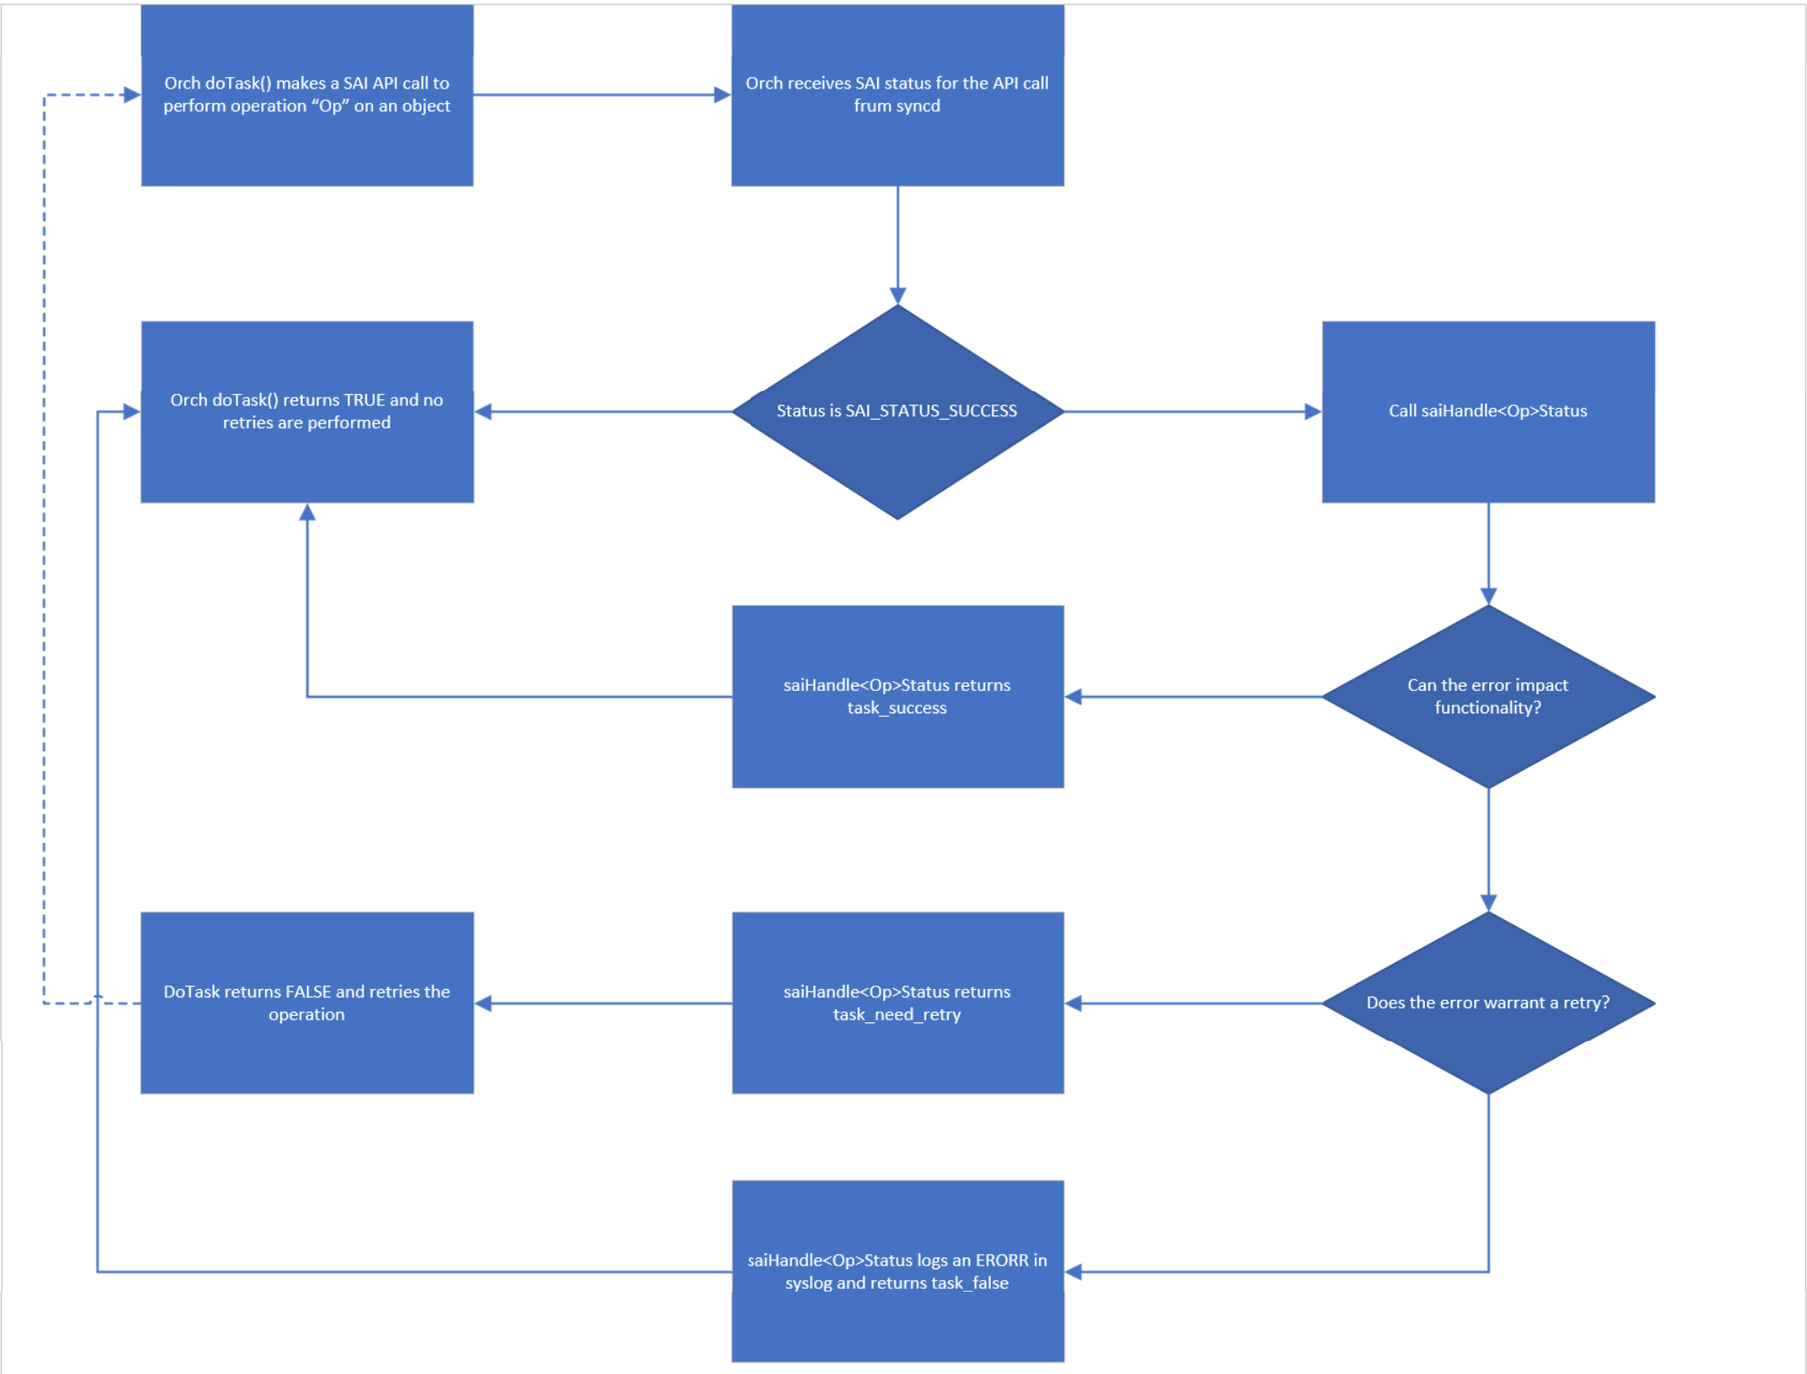
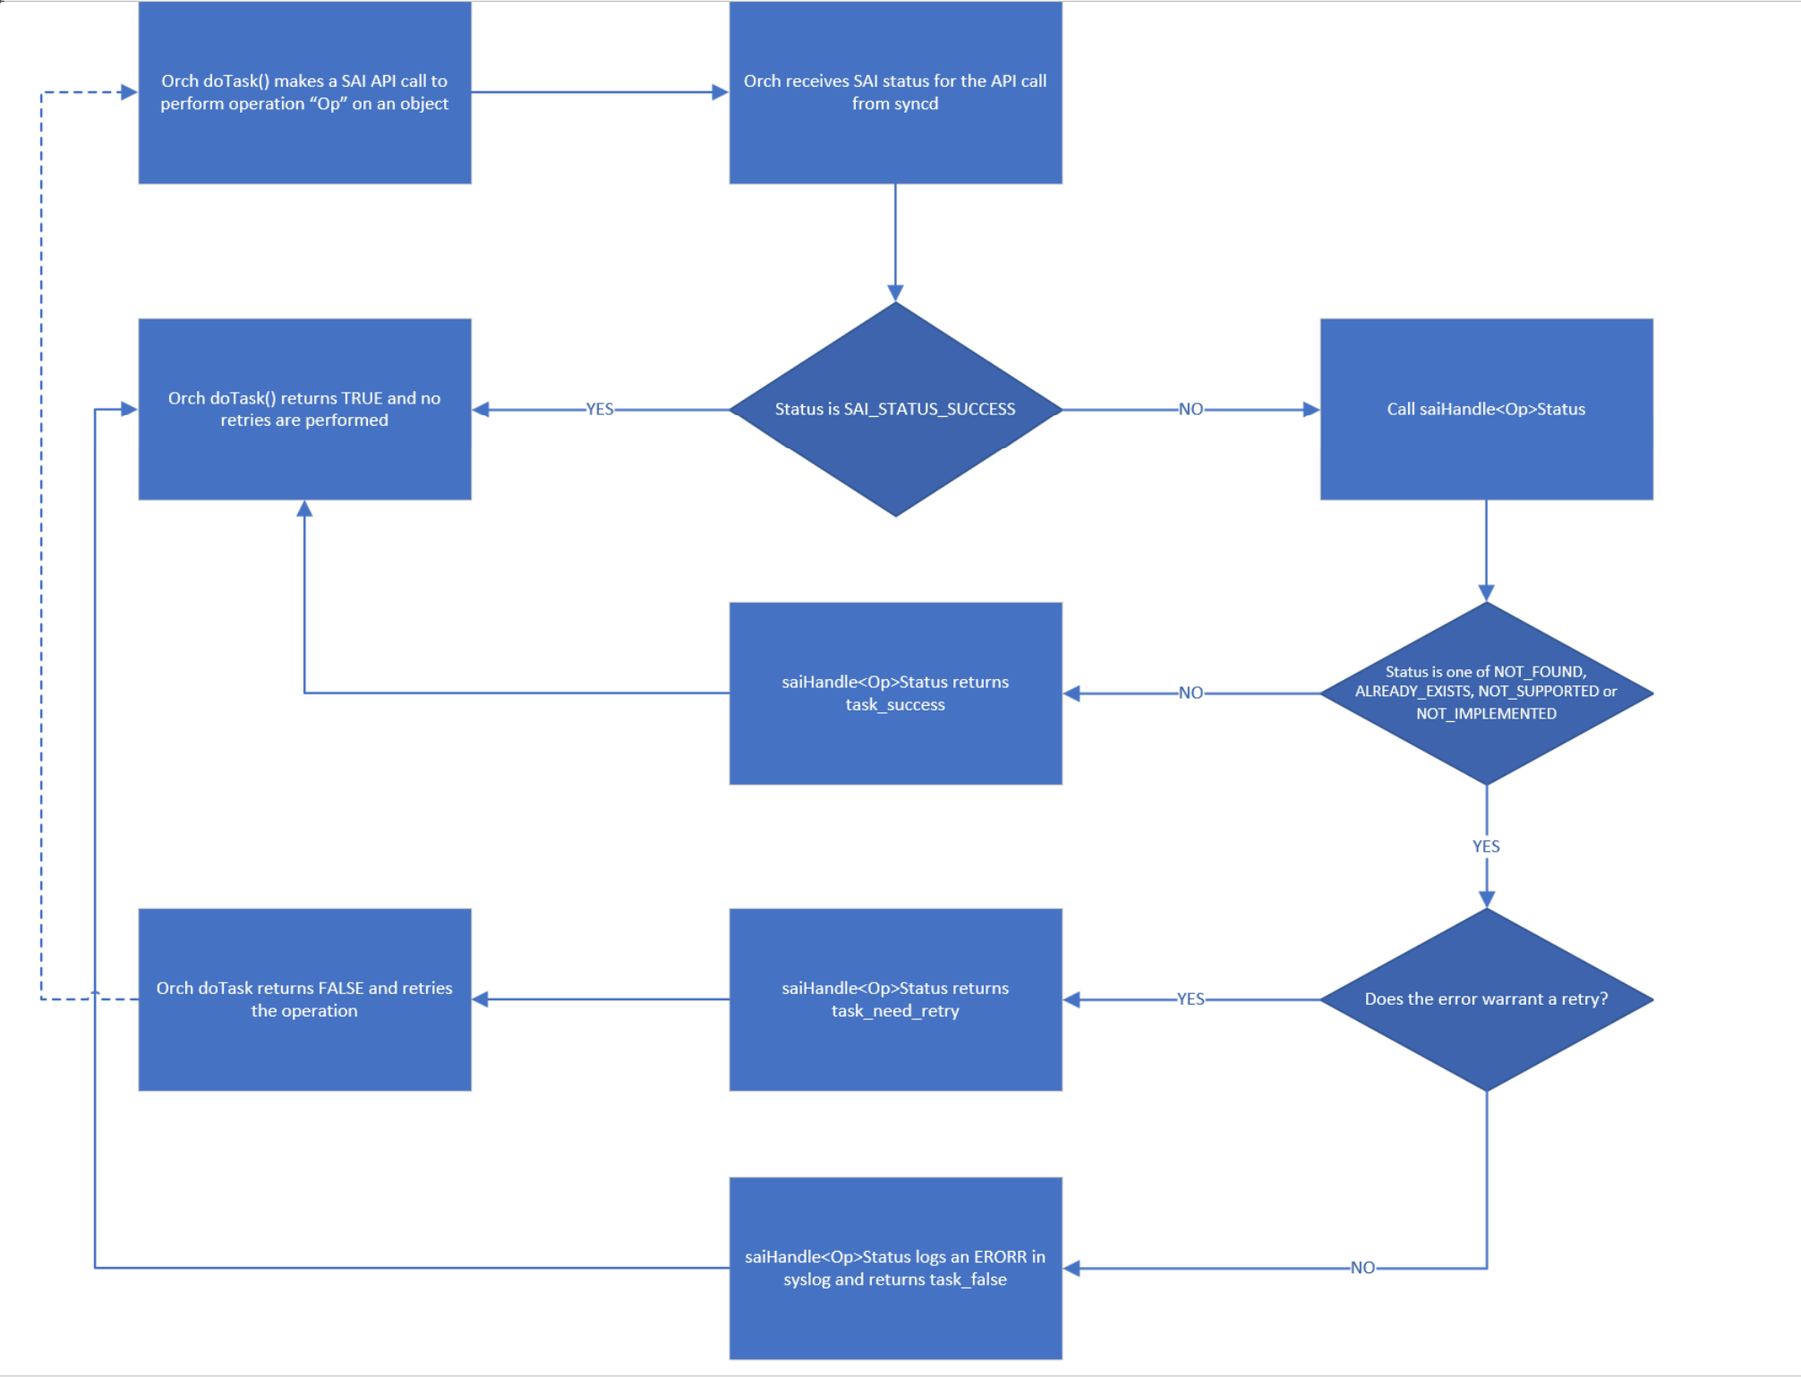
Address internal review comments

diff --git a/doc/error-handling/orchagent_error_handling.md b/doc/error-handling/orchagent_error_handling.md
@@ -11,9 +11,9 @@
   * [Motivation](#motivation)
   * [Design](#high-level-design)
     * [Orchagent changes](#orchagent-changes)
-      * [Proposed changes to detect and mitigate missed notifications from APP_DB to orchagent](#1-proposed-changes-to-detect-and-mitigate-missed-notifications-from-app_db-to-orchagent)
-      * [Proposed orchagent changes to detect out-of-sync entries between APP_DB and ASIC_DB](#2-proposed-orchagent-changes-to-detect-out-of-sync-entries-between-app_db-and-asic_db)
-      * [Proposed orchagent changes to avoid self-induced orchagent aborts in response to SAI errors](#3-proposed-orchagent-changes-to-avoid-self-induced-orchagent-aborts-in-response-to-sai-errors)
+      * [Avoid self-induced orchagent aborts in response to SAI errors](#1-avoid-self-induced-orchagent-aborts-in-response-to-sai-errors)
+      * [Detect missed notifications from APP_DB to orchagent](#2-detect-missed-notifications-from-app_db-to-orchagent)
+      * [Detect out-of-sync entries between APP_DB and ASIC_DB](#3-detect-out-of-sync-entries-between-app_db-and-asic_db)
   * [Warm Boot Support](#warmboot-and-fastboot-design-impact)
   * [Unit Tests](#unit-test-cases)
   * [System Tests](#system-test-cases)
@@ -43,17 +43,23 @@ This section covers the abbreviation if any, used in this high-level design docu
 
 ### Overview
 
-Orchagent is one of the most critical components in SONiC that is responsible for translating the data generated by applications into SAI objects that can be pushed down to the hardware via the southbound interface. As such, the reliability of this component is of great importance to the stability and availability of system running SONiC. Currently, most of the ASIC/SAI programming failures in SONiC result in a crash/restart of orchagent which can potentially cause dataplane impact and degraded customer experience. This is a day-1 behavior which is acceptable in certain cases but undesirable in most customer deployments. The intent of this document is to come up with a solution where such errors are handled gracefully by orchagent without a crash or restart. Also being addressed as part of this are some improvements in detecting and mitigating some of the common orchagent issues which can potentially cause sever dataplane impact. These improvements are primarily in the flows #1, #2 and #6 referenced in the flow diagram below:
+Orchagent is one of the most critical components in SONiC that is responsible for translating the data generated by applications into SAI objects that can be pushed down to the hardware via the southbound interface. As such, the reliability of this component is of great importance to the stability and availability of system running SONiC. Currently, most of the ASIC/SAI programming failures in SONiC result in a crash/restart of orchagent which can potentially cause dataplane impact and degraded customer experience. This is a legacy/day-1 behavior. The intent of this document is to come up with a solution where such errors are handled gracefully by orchagent without a crash or restart. Also being addressed as part of this are some improvements in detecting and mitigating some of the common orchagent issues which can potentially cause sever dataplane impact. These improvements are primarily in the flows #1, #2 and #6 referenced in the flow diagram below:
 
 ![orchagent flow](images/orchagent_flow.png)
 
-#### Requirements
+P.S: The diagram above is intended as a high-level overview of the components that are at play for redis based pub-sub architecture used in SONiC. 
 
-The requirements for orchagent error handling improvement are as follows:
+#### Goals
 
-- Avoid missed notifications from APP_DB to orchagent
-- Detect out-of-sync entries between APP_DB and ASIC_DB
 - Handle all ASIC/SAI programming errors gracefully without causing orchagent to crash or restart
+- Detect missed notifications from APP_DB to orchagent in SONiC systems that use redis-based communication channels
+- Detect out-of-sync entries between APP_DB and ASIC_DB
+
+#### Non-Goals
+
+- Propagation of errors from orchagent to upper layers via mechanisms like ERROR_DB
+- Detection of missed or pending notifications in SONiC systems that use ZMQ-based communication channels
+
 
 #### Motivation
 
@@ -65,42 +71,60 @@ No change in SONiC architecture is intended with this orchagent error handling b
 
 ### High-Level Design
 
-As discussed earlier, there are at least three potential ways in which orchagent behavior today can be improved:
+This HLD discusses three potential ways in which orchagent behavior today can be improved:
 
-1. Avoid missed notifications from APP_DB to orchagent
-
-    There have been instances where orchagent missed certain APP_DB table entry notifications in a race condition with a rather innocuous logrotate event. This caused those notifications to linger in the redis channel between APP_DB and orchagent without being consumed atll by Orchagent. It is quite obvious that this can be quite detrimental for entries which undergo lots of updates under normal circumstances. For eg: a link down event on a portchannel member may not be synced to ASIC-DB due to this resulting in traffic blackhole. While the root cause of that was a bug in code which was fixed later, it was understood that such conditions are painfully difficult to debug and mitigate without proper failsafe mechanisms. One of the mechanisms that we propose to alleviate this problem is to have a script that monitors APP_DB for unconsumed entries periodically using monit framework and nudge the notifications down to orchagent using sonic-db-cli PUBLISH command so they get consumed right away.
-
-2. Detect out-of-sync entries between APP_DB and ASIC_DB
-
-    This is a situation that is similar to the one discussed above, but slightly different in the sense that these notifications are not missed by Orchagent. These notifications have been processed by orchagent but have not been synced to ASIC-DB due to either failed dependency checks or other conflicts resulting in retries. In this case the entries are part of m_toSync data structure until they are successfully added to ASIC_DB. A good example for such a situation is where a route addition fails when the nexthop neighbor is not resolved. This will trigger a set of retries in orchagent with the expectation that it will eventually succeed, however in many cases the situation may not resolve itself and will need an intervention. Such situations are easily overlooked when trying to narrow down the root cause for a traffic loss scenario in a complex network deployment. While route_check.py script does help to identify such routes which are out of sync between APP_DB and ASIC_DB, a more generic object-agnostic way of determining entries that are out of sync between APP_DB and ASIC_DB at any given time is needed. Our proposal is to either leverage the script used in #1 to also determine such pending entries in a periodic manner using monit or otherwise extend the main loop of orchagent to check for pending entries after each iteration, i.e after executing doTask() methods for all the orchs in m_orchList once.
-
-3. Avoid self-induced orchagent aborts in response to SAI errors
+1. Avoid self-induced orchagent aborts in response to SAI errors
 
     The most significant change in this proposal is to do away with self-induced orchagent crashes when a SAI API call fails (i.e, when the call returns anything other than SAI_STATUS_SUCCESS) as is the case for a large proportion of SAI errors handled today by different orchs that constitute orchagent.
 
     All existing SAI error statuses are planned to be gracefully handled by orchagent without causing it to exit. The orchagent error handling behavioral changes introduced here will be the standard behavior going forward on all SONiC platforms with no option to retain the existing behavior. All changes will be limited to orchagent inside the swss container and in standalone scripts that are run periodically using monit infrastructure in SONiC.
 
+2. Detect missed notifications from APP_DB to orchagent
+
+    There have been instances where orchagent missed certain APP_DB table entry notifications in a race condition with a rather innocuous logrotate event. This caused those notifications to linger in the redis channel between APP_DB and orchagent without being consumed atll by Orchagent. It is quite obvious that this can be quite detrimental for entries which undergo lots of updates under normal circumstances. For eg: a link down event on a portchannel member may not be synced to ASIC-DB due to this resulting in traffic blackhole. While the root cause of that was a bug in code which was fixed later, it was understood that such conditions are painfully difficult to debug and mitigate without proper failsafe mechanisms. One of the mechanisms that we propose to alleviate this problem is to have a script that monitors APP_DB for unconsumed entries periodically using monit framework and nudge the notifications down to orchagent using sonic-db-cli PUBLISH command so they get consumed right away.
+
+3. Detect out-of-sync entries between APP_DB and ASIC_DB
+
+    This is a situation that is similar to the one discussed above, but slightly different in the sense that these notifications are not missed by Orchagent. These notifications have been processed by orchagent but have not been synced to ASIC-DB due to either failed dependency checks or other conflicts resulting in retries. In this case the entries are part of m_toSync data structure until they are successfully added to ASIC_DB. A good example for such a situation is where a route addition fails when the nexthop neighbor is not resolved. This will trigger a set of retries in orchagent with the expectation that it will eventually succeed, however in many cases the situation may not resolve itself and will need an intervention. Such situations are easily overlooked when trying to narrow down the root cause for a traffic loss scenario in a complex network deployment. While route_check.py script does help to identify such routes which are out of sync between APP_DB and ASIC_DB, a more generic object-agnostic way of determining entries that are out of sync between APP_DB and ASIC_DB at any given time is needed. Our proposal is to either leverage the script used in #1 to also determine such pending entries in a periodic manner using monit or otherwise extend the main loop of orchagent to check for pending entries after each iteration, i.e after executing doTask() methods for all the orchs in m_orchList once.
+
 ## Orchagent changes
 
-### 1. Proposed changes to detect and mitigate missed notifications from APP_DB to orchagent
+### 1. Avoid self-induced orchagent aborts in response to SAI errors
+
+![orch error handling](images/orch_error_handling.png)
+
+When orchagent receives an error notification from syncd for a SAI API call that failed,
+one of three actions will be performed in one of the handleSai<Op>Status() functions in orchagent, depending on whether the operation was a create, set, remove or get:
+
+ a. If the error is something that can resolve itself with subsequent retries like for eg: SAI_STATUS_OBJECT_IN_USE or SAI_STATUS_TABLE_FULL, handleSai<Op>Status() will return task_need_retry. Such errors are highlighted in yellow in the table below.
+
+ b. If the error is something that is unlikely to be resolved with a subsequent attempt like for eg: SAI_STATUS_NOT_SUPPORTED, orchagent will call handleSaiFailure() with abort_on_failure set to False by default so orchagent does not exit and handleSai<Op>Status() will return task_failed. This will also log an ERROR syslog message.
+ Such errors are highlighted in red in the table below.
+
+ c. If the error is rather harmless like SAI_STATUS_ITEM_ALREADY_EXISTS or SAI_STATUS_ITEM_NOT_FOUND, orchagent will log an INFO syslog message and return task_success such that no retries will be attempted. Such errors are highlighted in green in the table below.
+
+![sai status handling](images/sai_status_handling.png)
+
+It is to be noted that some combinations in the table above are not valid scenarios like for example: SAI_STATUS_INSUFFICIENT_RESOURCES when removing an object or SAI_STATUS_ITEM_NOT_FOUND when creating an object. They are however mentioned for completeness.
+
+### 2. Detect missed notifications from APP_DB to orchagent
 
 A new python script will be introduced whose job is to verify that there are no notifications from APP_DB that are yet to be seen or consumed by orchagent over a specified period of time. The initial plan is to introduce this monitoring and mitgation only for certain dynamic APP_DB tables that undergo a lot of churn like LAG_MEMBER_TABLE, LAG_TABLE, NEIGH_TABLE, ROUTE_TABLE, INTF_TABLE and MUX_CABLE_TABLE.
 
-The workflow for the script is as follows:
+The script workflow will be as follows:
 
 * Read aforementioned APP_DB tables once for unconsumed entries. These entries show up in APP_DB with an "_" prefix.
 * Wait 30 seconds.
 * Read APP_DB tables again for unconsumed entries
 * If there are overlapping entries between both reads,
-    * Add that table to the list of tables to be synced
-* Go through all the tables that need to be synced
-    * Publish the pending entries for that table using 'sonic-db-cli APPL_DB publish ""' command
-* The new message published on the REDIS channel will trigger a SELECT causing orchagent to process all the unconsumed entries for that orch
+    * Return a non-zero error code
+  Else
+    * Return zero
 
-This script will be called periodically every 5 minutes using monit infrastructure and alert will be generated by monit if the script returns a non-zero status for 3 cycles. This helps in faster detection and mitigation of such issues.
+This script will be called periodically every 15 minutes using monit infrastructure and alert will be generated by monit if the script returns a non-zero status for 3 cycles. This helps in faster detection and mitigation of such issues. \
+It is to be noted that this is not applicable for ZMQ based producers/consumers.
 
-### 2. Proposed orchagent changes to detect out-of-sync entries between APP_DB and ASIC_DB
+### 3. Detect out-of-sync entries between APP_DB and ASIC_DB
 
 A new binary query_orchagent will be introduced in swss container which will talk to orchagent using redis notification channels ORCHAGENTQUERY and ORCHAGENTQUERYREPLY similar to the RESTARTCHECK and RESTARTREPLY channels used for warm restart readiness check.
 query_orchagent will act as the notification producer on ORCHAGENTQUERY channel and be notification consumer on the ORCHAGENTQUERYREPLY channel while switchorch in orchagent will act as the notification producer on ORCHAGENTQUERYREPLY channel and act as the notification consumer on ORCHAGENTQUERY channel. It is to be noted that while query_orchagent is used in this particular case for determing out-of-sync entries between APP_DB and ASIC_DB, the design is generic enough to be used as a mechanism to retrieve any desired data from orchagent using appropriate command options to query_orchagent. For the specific case of getting pending entries from orchagent, query_orchagent will be run with an option "-p".
@@ -124,22 +148,6 @@ Call flow:
 6. query_orchagent process will then listen to notifications on ORCHAGENTQUERYREPLY channel and retrieve the pending entries in orchagent.
 
 7. query_orchagent can then compare the most recently obtained set of pending entries to the previously stashed copy of pending entries and determine if any of the entries are stuck in processing beyond a specific timeframe of 5 minutes. If so, an ERROR message can be logged into syslog. This will help debug and mitigate such issues faster.
-
-### 3. Proposed orchagent changes to avoid self-induced orchagent aborts in response to SAI errors
-
-![orch error handling](images/orch_error_handling.png)
-
-When orchagent receives an error notification from syncd for a SAI API call that failed,
-one of three actions will be performed in one of the handleSai<Op>Status() functions in orchagent, depending on whether the operation was a create, set, remove or get:
-
- a. If the error is something that can resolve itself with subsequent retries like for eg: SAI_STATUS_OBJECT_IN_USE or SAI_STATUS_TABLE_FULL, handleSai<Op>Status() will return task_need_retry. Such errors are highlighted in yellow in the table below.
-
- b. If the error is something that is unlikely to be resolved with a subsequent attempt like for eg: SAI_STATUS_NOT_SUPPORTED, orchagent will call handleSaiFailure() with abort_on_failure set to False by default so orchagent does not exit and handleSai<Op>Status() will return task_failed. This will also log an ERROR syslog message.
- Such errors are highlighted in red in the table below.
-
- c. If the error is rather harmless like SAI_STATUS_ITEM_ALREADY_EXISTS or SAI_STATUS_ITEM_NOT_FOUND, orchagent will log an INFO syslog message and return task_success such that no retries will be attempted. Such errors are highlighted in green in the table below.
-
-![sai status handling](images/sai_status_handling.png)
  
 ### SAI API
 
@@ -159,7 +167,7 @@ There is no config DB change needed for this functionality.
 ### Warmboot and Fastboot Design Impact
 
 This error handling improvement does not have any requirements or dependencies w.r.t warmboot or fastboot.
-Warm reboot does not currently go through when there are pending orchagent entries that have yet to be consumed and that behavior will stay as-is.
+Warm reboot does not currently go through when there are pending orchagent entries that have yet to be programmed to ASIC_DB and that behavior will stay as-is.
 
 ### Memory Consumption
 
@@ -188,15 +196,7 @@ The unit test plan for orchagent error handling is documented below:
 
 ### System Test cases
 
-| S.No | SAI  status |   Test description                                             |  Expectation |
-| -----| ----------- | -------------------------------------------------------------- | ------------ |
-|   1  |  SAI_STATUS_INSUFFICIENT_RESOURCES            | Create as many VRFs as possible to induce SAI_STATUS_INSUFFICIENT_RESOURCES| Orchagent should retry the operation and not crash |
-|   2  | SAI_STATUS_TABLE_FULL                         | Create as many nexthop groups as possible to induce SAI_STATUS_INSUFFICIENT_RESOURCES | Orchagent should retry the operation and not crash |
-|   3  |  SAI_STATUS_OBJECT_IN_USE                     | Add a neighbor and route entry pointing to that as nexthop and remove the neighbor| Orchagent should retry the operation and not crash |
-|   4  |  SAI_STATUS_ITEM_NOT_FOUND                    | Remove a route entry that does not exist| Orchagent should not crash |
-|   5  |  SAI_STATUS_ITEM_ALREADY_EXISTS               | Add a route entry that matches loopback IP route entry | Orchagent should not crash |
-|   6  |  SAI_STATUS_NOT_IMPLEMENTED                   | Create a trap entry for SAI_HOSTIF_TRAP_TYPE_ISIS | Orchagent should not crash |
-|   7  | SAI_STATUS_NOT_EXECUTED                       | Add mutliple duplicate routes in one shot using swssconfig | Orchagent should not crash and an error message should be logged in syslog |
+TBD
 
 ### Open/Action items
 
